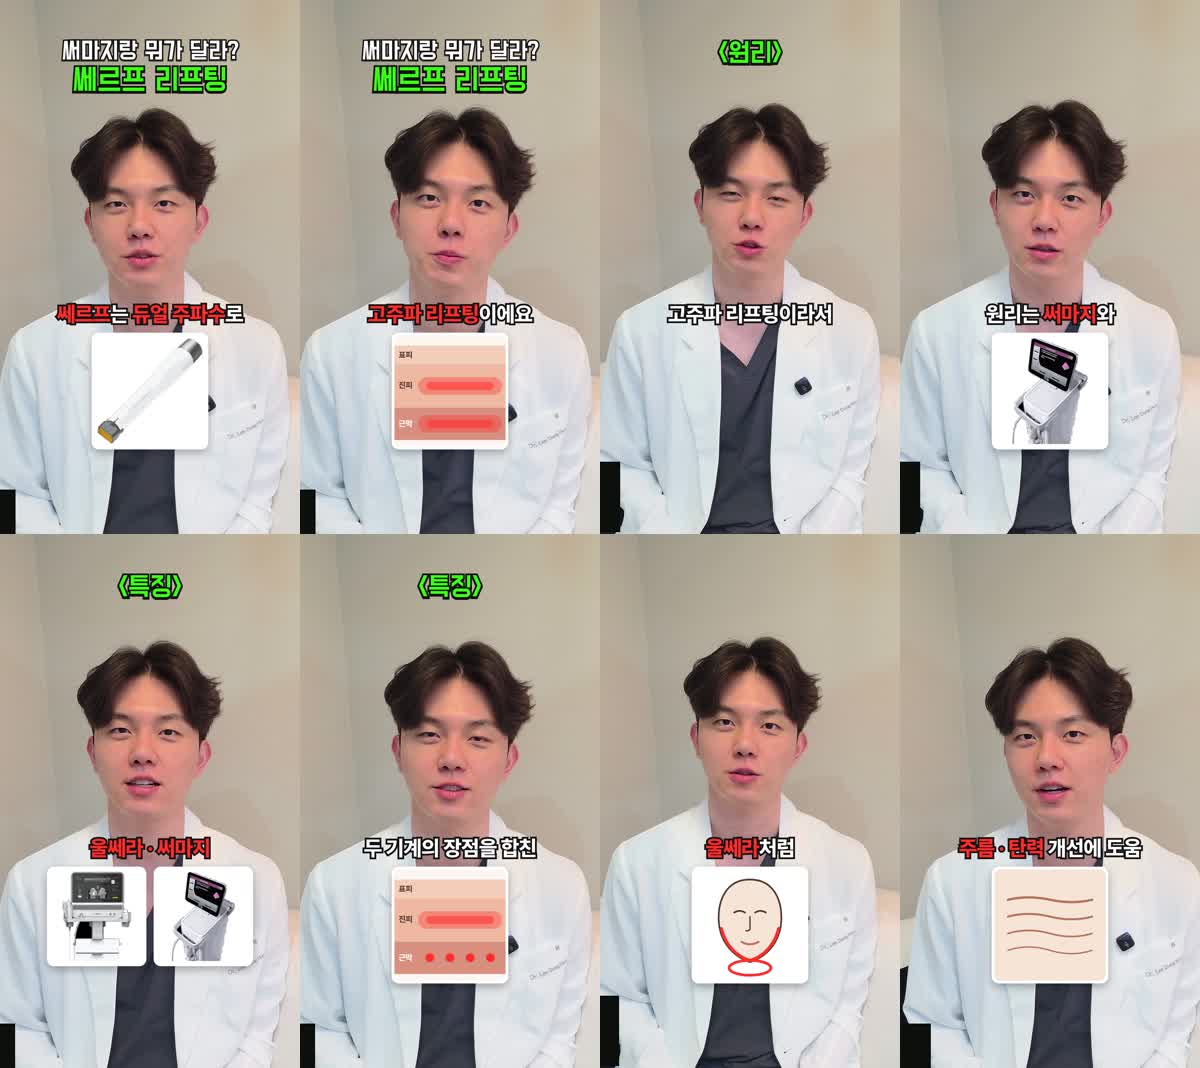
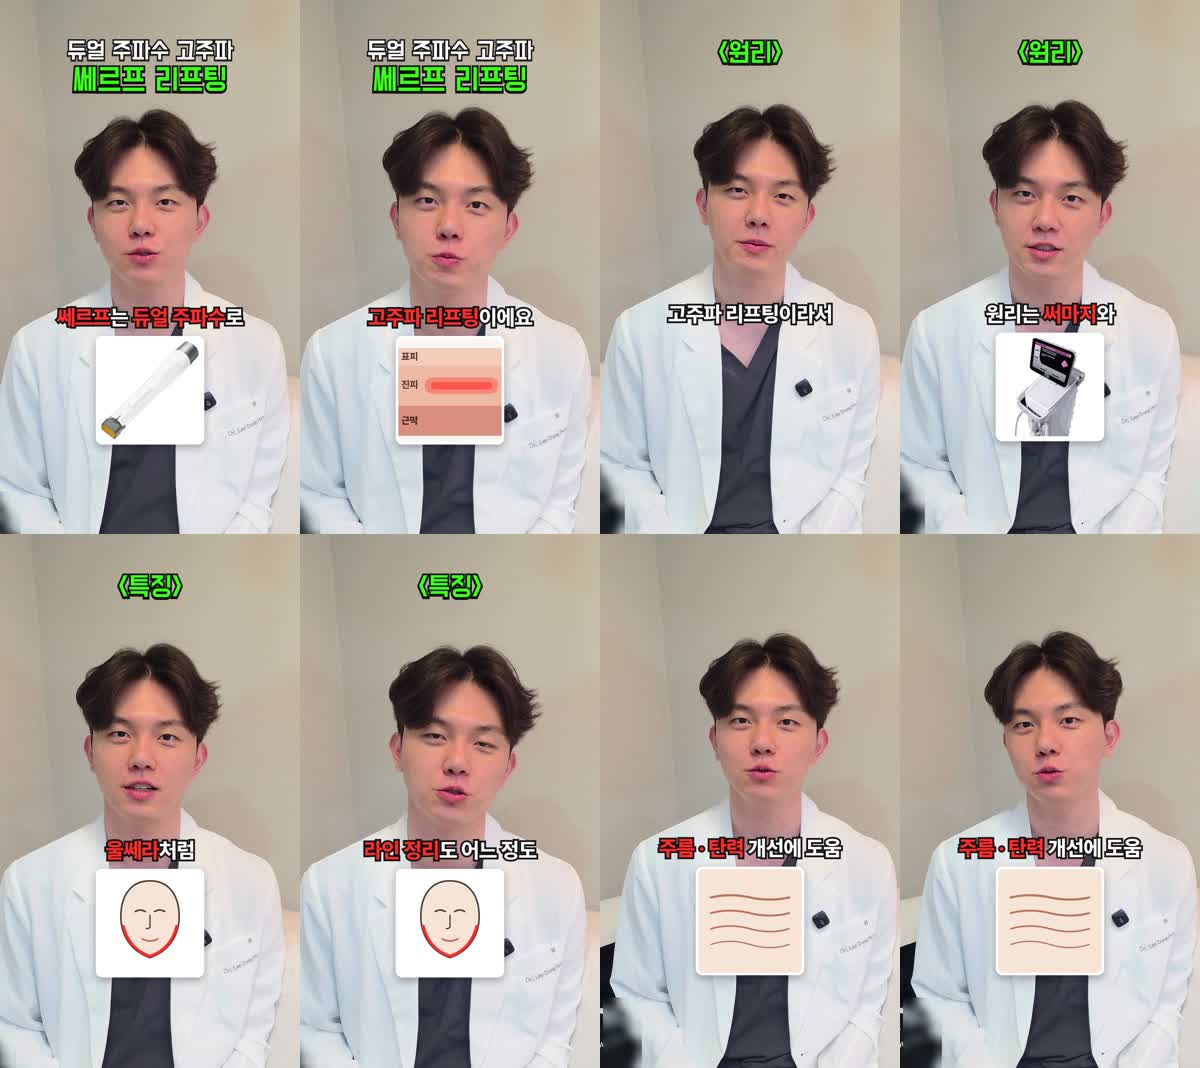
Apply review fixes to XERF explainer
Drop the two-device superiority line, retitle around dual frequency,
draw RF heat in the dermis only, jawline-only face diagram, larger
layer labels, blur the cushion wordmark instead of a black box, and
use a 70px chin margin for this speaker in QA and caption offsets.

Claude-Session: https://claude.ai/code/session_015iv4uUKW8AbrYF6qvAiKTG

diff --git a/reels/build/tpl.html b/reels/build/tpl.html
@@ -58,11 +58,13 @@ function face(areas){const A=new Set(areas),R='#ff2b2b',on=k=>A.has(k)?R:'rgba(0
  <ellipse cx="165" cy="292" rx="62" ry="22" fill="none" stroke="${on('chin')}" stroke-width="8"/>
  <path d="M120 300 v26 M210 300 v26" stroke="${on('neck')}" stroke-width="9" stroke-linecap="round"/>`)}
 // 피부 단면: level 1 표피 · 2 진피 · 3 근막(SMAS)에 에너지가 모이는 지점.
-// kind: 'dot'(초음파 초점) | 'heat'(고주파·극초단파 넓은 열) | 'dual'(두 깊이에 열: 진피+근막) | 'combo'(진피 열 + 근막 초점)
+// kind: 'dot'(초음파 초점) | 'heat'(넓은 열) | 'dermis'(진피에만 넓은 열: 고주파) | 'dual'(진피+근막 열) | 'combo'(진피 열 + 근막 초점)
+// 주의: 장비 원리와 맞는 것만 쓸 것. 고주파(써마지·쎄르프)는 'dermis', 초음파(울쎄라·슈링크)는 level 3 'dot'
 function layers(level,kind='dot',col='#ff2b2b'){
  const Y=[0,58,150,262][level];
- const heat=y=>`<rect x="70" y="${y-26}" width="250" height="52" rx="26" fill="${col}" opacity=".35"/><rect x="95" y="${y-12}" width="200" height="24" rx="12" fill="${col}" opacity=".55"/>`;
+ const heat=y=>`<rect x="84" y="${y-26}" width="236" height="52" rx="26" fill="${col}" opacity=".35"/><rect x="104" y="${y-12}" width="196" height="24" rx="12" fill="${col}" opacity=".55"/>`;
  const dots=y=>[105,165,225,285].map(x=>`<circle cx="${x}" cy="${y}" r="13" fill="${col}"/>`).join('');
+ if(kind==='dermis') return layers.base(heat(150));
  if(kind==='dual'||kind==='combo'){const m=kind==='dual'?heat(150)+heat(262):heat(150)+dots(262);
   return layers.base(m)}
  const mark=kind==='heat'?`<rect x="30" y="${Y-26}" width="270" height="52" rx="26" fill="${col}" opacity=".35"/><rect x="60" y="${Y-12}" width="210" height="24" rx="12" fill="${col}" opacity=".55"/>`
@@ -70,9 +72,9 @@ function layers(level,kind='dot',col='#ff2b2b'){
  return layers.base(mark)}
 layers.base=mark=>card(`<rect x="0" y="0" width="330" height="330" rx="18" fill="#fbf6f2"/>
  <rect x="0" y="30" width="330" height="56" fill="#f3cdb9"/><rect x="0" y="86" width="330" height="128" fill="#eeb8a2"/><rect x="0" y="214" width="330" height="96" fill="#d98f80"/>
- <text x="12" y="66" font-family="Sub" font-weight="800" font-size="24" fill="#5a3c33">표피</text>
- <text x="12" y="156" font-family="Sub" font-weight="800" font-size="24" fill="#5a3c33">진피</text>
- <text x="12" y="270" font-family="Sub" font-weight="800" font-size="24" fill="#fff">근막</text>${mark}`);
+ <text x="10" y="68" font-family="Sub" font-weight="800" font-size="31" fill="#5a3c33">표피</text>
+ <text x="10" y="158" font-family="Sub" font-weight="800" font-size="31" fill="#5a3c33">진피</text>
+ <text x="10" y="272" font-family="Sub" font-weight="800" font-size="31" fill="#3a2520">근막</text>${mark}`);
 // 색소(기미·잡티) 피부
 function spots(){let c='';for(let i=0;i<22;i++){const x=40+(i*67)%250,y=60+((i*41)%210);c+=`<ellipse cx="${x}" cy="${y}" rx="${8+(i%4)*4}" ry="${6+(i%3)*3}" fill="rgba(140,90,60,${.35+(i%3)*.15})"/>`}
  return card(`<rect width="330" height="330" rx="18" fill="#f6e3d6"/>${c}`)}
@@ -109,7 +111,7 @@ if(D.TITLE_TOP) $('title').style.top=D.TITLE_TOP+'px';
 // 자막 시작 높이(영상마다 턱 위치에 맞춤). 그래픽은 자막 한 줄 아래(+112px)
 if(D.SUB_TOP){ $('sub').style.top=D.SUB_TOP+'px'; $('gfx').style.top=(D.SUB_TOP+112)+'px'; }
 window.render=function(t){
- const so=(SHOTOFF.find(r=>t>=r[0]&&t<r[1])||[0,0,0])[2]; $('sub').style.transform=`translateY(${so}px)`; $('gfx').style.transform=`translateY(${so}px)`;
+ const so=(SHOTOFF.find(r=>t>=r[0]&&t<r[1])||[0,0,0])[2]; $('sub').style.transform=`translateY(${so}px)`; $('gfx').style.transform=`translateY(${so}px) scale(${D.GFX_SCALE||1})`; $('gfx').style.transformOrigin='50% 0';
  const h=pick(HEAD,t); set('title',h?h[2]:'');
  const s=pick(SUB,t);  set('sub',s?s.slice(2).map(l=>`<span class="sl">${l}</span>`).join(''):'');
  document.querySelectorAll('#sub .sl').forEach(e=>{e.style.transform='';const w=e.getBoundingClientRect().width;if(w>1000)e.style.transform=`scale(${(1000/w).toFixed(3)})`;});

diff --git a/reels/build/cut.py b/reels/build/cut.py
@@ -6,6 +6,7 @@ plan = {"src": "footage/x.mp4", "out": "x_cut.mov", "sil": "tr/x.sil",
         "zooms": [1.24, 1.32],             # 컷마다 번갈아 쓸 배율(원본 9:16 4K 기준, 1.0 = 화면의 75% 높이)
         "face_y": 0.40,                    # (선택) 얼굴 중심을 둘 높이(위에서 비율)
         "cover": [[x, y, w, h, "0x111111"]],  # (선택) 원본 좌표에서 칠해 가릴 사각형
+        "blur": [[x, y, w, h]],            # (선택) 원본 좌표에서 흐리게 할 사각형(상표 글자 등)
         "zoom_list": [...]}                # (선택) 컷별 배율을 직접 지정. 원본이 이어지는 곳은 같은 배율로 두면 화면이 바뀌지 않음
 segs 안의 0.22초 넘는 쉼은 자동으로 걷어 내고, 그 자리가 컷이 된다. 결과 옆에 <out>.json(컷 목록) 저장.
 """
@@ -76,7 +77,10 @@ def main():
         d = b - a
         # cover: 원본 좌표 [x, y, w, h, 색] 사각형을 칠해 화면에 걸린 상표 등을 가림(삼각대 고정 촬영 기준)
         cov = "".join(f"drawbox=x={c[0]}:y={c[1]}:w={c[2]}:h={c[3]}:color={c[4]}:t=fill," for c in plan.get("cover", []))
-        vf = (f"{cov}crop={w}:{h}:{x}:{y},scale=1080:1920:flags=lanczos,fps=30,{tonemap(trc)}"
+        # blur: 원본 좌표 [x, y, w, h] 부분만 흐리게(검은 상자보다 자연스러움)
+        blr = "".join(f"split[m{k}][c{k}];[c{k}]crop={r[2]}:{r[3]}:{r[0]}:{r[1]},boxblur=22:3[b{k}];[m{k}][b{k}]overlay={r[0]}:{r[1]},"
+                      for k, r in enumerate(plan.get("blur", [])))
+        vf = (f"{cov}{blr}crop={w}:{h}:{x}:{y},scale=1080:1920:flags=lanczos,fps=30,{tonemap(trc)}"
               "eq=contrast=1.03:saturation=1.03,unsharp=5:5:0.4,format=yuv420p")
         af = f"afade=t=in:d=0.015,afade=t=out:st={d - .025:.3f}:d=0.025,aresample=48000"
         part = os.path.join(tmp, f"{i:02d}_{a:.2f}_{b:.2f}_{z}_{x}_{y}.mov")

diff --git a/reels/build/qa.py b/reels/build/qa.py
@@ -1,7 +1,7 @@
 """오버레이가 얼굴을 가리는지, 인스타그램 UI 영역에 들어가는지 모든 프레임에서 검사.
 
-python qa.py <합성 전 영상.mov> <오버레이 PNG 폴더>
-얼굴 = 얼굴 검출 상자에 좌우 10px, 위 15px, 아래 40px(턱)을 더한 영역. 하단 UI = y>=1632, 오른쪽 버튼 = x>=960 & 1150<=y<1700.
+python qa.py <합성 전 영상.mov> <오버레이 PNG 폴더> [턱 여유 px, 기본 40]
+얼굴 = 얼굴 검출 상자에 좌우 10px, 위 15px, 아래 pad(턱, 기본 40px)를 더한 영역. 검출 상자가 아랫입술 근처에서 끝나는 사람은 pad를 70 정도로. 하단 UI = y>=1632, 오른쪽 버튼 = x>=960 & 1150<=y<1700.
 """
 import json, subprocess, sys
 import cv2, numpy as np
@@ -24,7 +24,7 @@ def facemap(video):
 
 
 def main():
-    video, od = sys.argv[1], sys.argv[2]
+    video, od = sys.argv[1], sys.argv[2]; pad = int(sys.argv[3]) if len(sys.argv) > 3 else 40
     faces = facemap(video)
     p = subprocess.Popen(["ffmpeg", "-v", "error", "-framerate", "30", "-i", f"{od}/%05d.png", "-f", "rawvideo", "-pix_fmt", "rgba", "-"],
                          stdout=subprocess.PIPE)
@@ -32,7 +32,7 @@ def main():
     while len(b := p.stdout.read(W * H * 4)) == W * H * 4:
         a = np.frombuffer(b, np.uint8).reshape(H, W, 4)[:, :, 3] > 60
         t = i / 30; _, x, y, w, h = min(faces, key=lambda r: abs(r[0] - t))
-        n = int(a[max(0, y - 15):y + h + 40, max(0, x - 10):x + w + 10].sum())
+        n = int(a[max(0, y - 15):y + h + pad, max(0, x - 10):x + w + 10].sum())
         if n: bad.append((round(t, 2), n))
         ui += bool(a[1632:].any()); right += bool(a[1150:1700, 960:].any())
         ys = np.where(a.any(axis=1))[0]; low = max(low, int(ys.max()) if len(ys) else 0); i += 1

diff --git a/reels/build/shotface.py b/reels/build/shotface.py
@@ -1,17 +1,17 @@
 """컷별 얼굴 아래끝(턱) 최댓값 → 자막·그래픽을 그 컷 동안 얼마나 내릴지(px).
 
-python shotface.py <합성 전 영상.mov> <컷 목록 .json> <자막 top px> > shotoff.json
+python shotface.py <합성 전 영상.mov> <컷 목록 .json> <자막 top px> [턱 여유 px, 기본 40] > shotoff.json
 """
 import json, sys
 import numpy as np
 sys.path.insert(0, __file__.rsplit('/', 1)[0])
 from qa import facemap
 
-video, shots, top = sys.argv[1], json.load(open(sys.argv[2]))["shots"], int(sys.argv[3])
+video, shots, top = sys.argv[1], json.load(open(sys.argv[2]))["shots"], int(sys.argv[3]); pad = int(sys.argv[4]) if len(sys.argv) > 4 else 40
 faces = facemap(video)
 out = []
 for s in shots:
     b = [r[2] + r[4] for r in faces if s["t0"] <= r[0] < s["t1"]]
     m = max(b) if b else int(np.percentile([r[2] + r[4] for r in faces], 95))
-    out.append([s["t0"], s["t1"], int(max(0, m + 40 - top))])
+    out.append([s["t0"], s["t1"], int(max(0, m + pad - top))])
 print(json.dumps(out))
